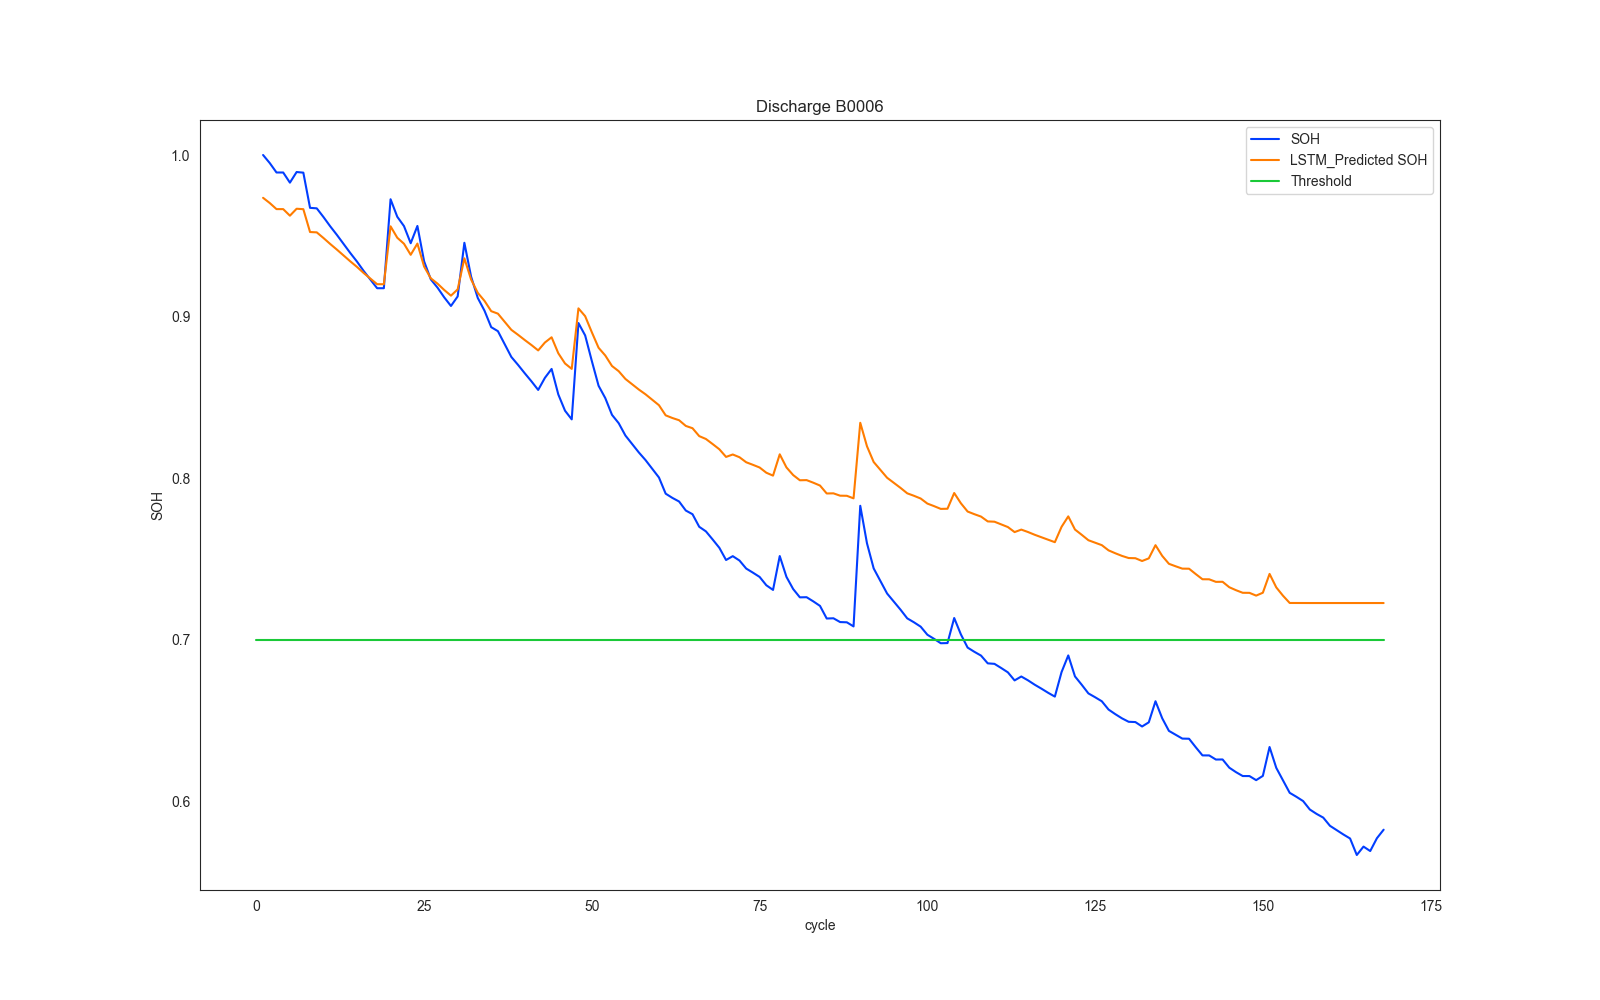
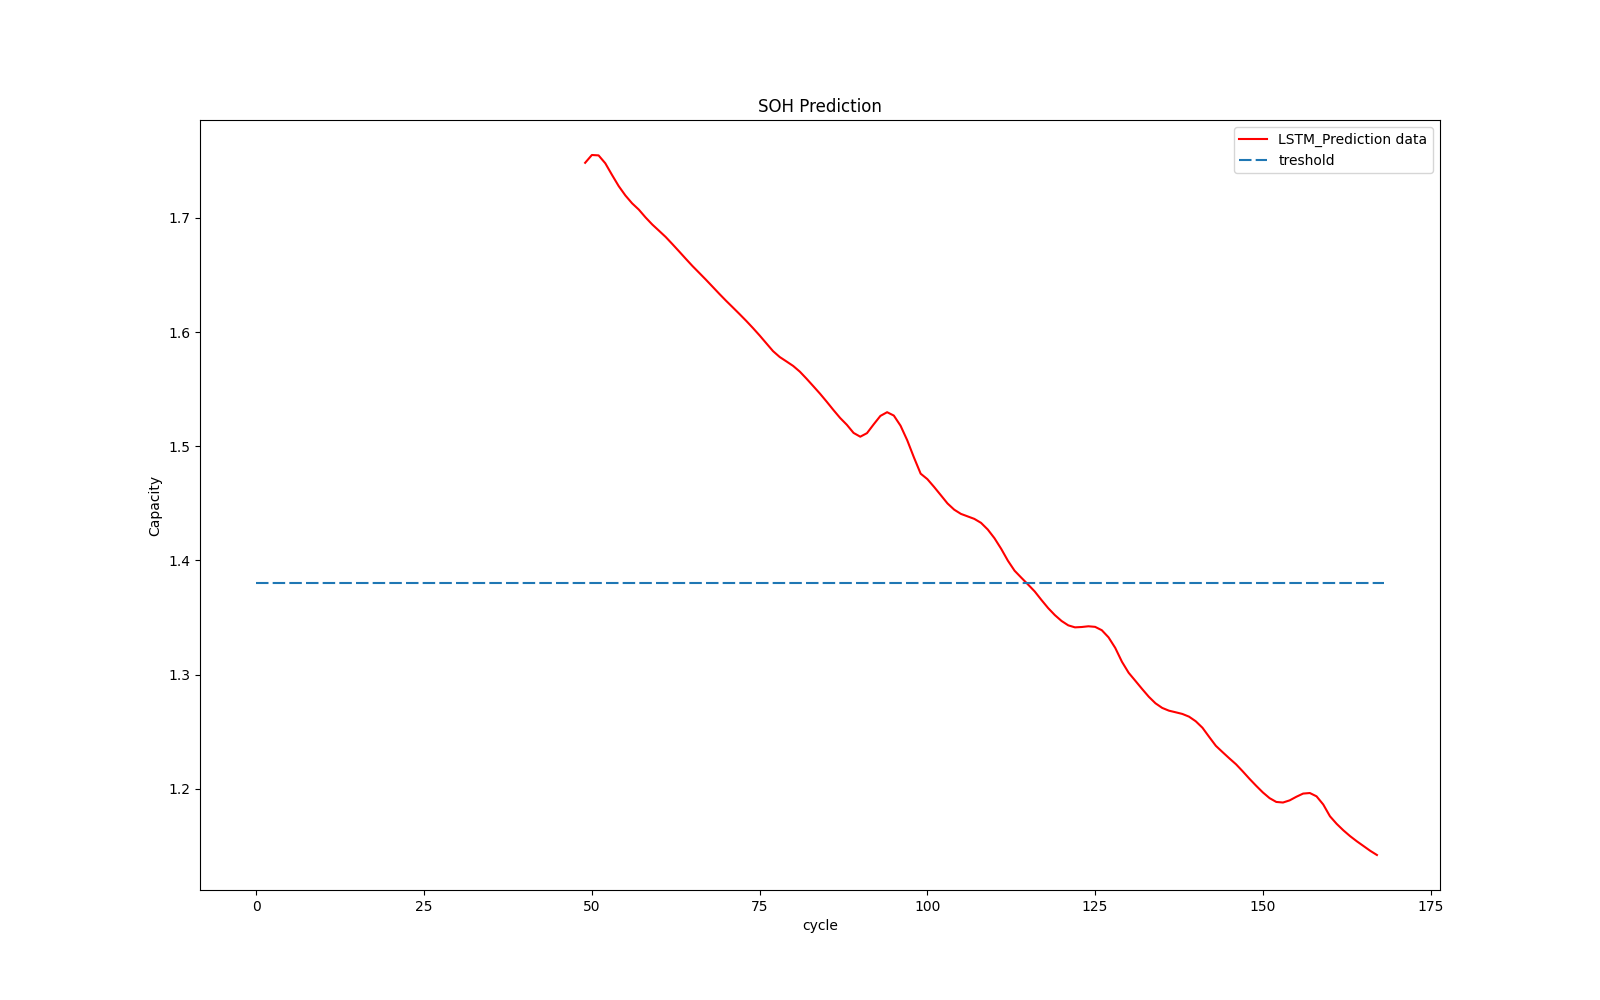
aifinish

diff --git a/index.js b/index.js
@@ -6,8 +6,8 @@ const app = express();
 const port = 4000;
 
 app.use(express.json()); // JSON 요청 파싱
-//나중에 포스트로
-app.post("/ai", (req, res) => {
+
+app.post("/predict", (req, res) => {
   //이미지 생성
   console.log("AI URL 호출");
 
@@ -38,11 +38,16 @@ app.post("/ai", (req, res) => {
 
   // Python 프로세스 종료 후 응답 전송
   pythonOne.on("close", (code) => {
-    console.log(`Python process exited with code ${code}`);
-    console.log(`이미지 저장 경로: ${outputFilePath}`);
-
+    //console.log(pythonOutput);
+    const lines = pythonOutput.trim().split("\n"); // 모든 줄을 배열로 분리
+    const lastLine = lines[lines.length - 1]; // 마지막 줄 가져오기
+    //console.log(lastLine);
     // 이미지 생성 완료 응답
-    res.json({ id: userId, file: outputFileName });
+    res.json({
+      device_number: userId,
+      predicted_SOH: lastLine,
+      file: outputFileName,
+    });
   });
 });
 

diff --git a/lstm.py b/lstm.py
@@ -27,35 +27,43 @@ import json
 import sys  # 추가: Node.js에서 인자를 받기 위해 사용
 
 # Node.js에서 이미지 저장 경로를 전달받음
-if len(sys.argv) < 2:
-    print("Error: Output file path not provided.")
-    sys.exit(1)
 
+
+if len(sys.argv) < 2:
+     #print("Error: Output file path not provided.")
+     sys.exit(1)
 output_file_path = sys.argv[1]  # Node.js에서 전달받은 출력 경로
 
+###!! 데이터베이스 연동 해서 넘겨줘야됨 input_data=np.array([[a,b,c,d,e,f,g]]) #넣어야 하는 값
+###!! 데이터베이스 연동해서 넘기고 확인해야됨 print(input_data)
+
+
 ###js추가
+
+
 def load_data(matlab_data):
   mat = loadmat(matlab_data)
 
   # '__'로 시작하지 않는 키를 찾아서 사용
   filename = [key for key in mat.keys() if not key.startswith('_')][0]
 
-  print('Total data in dataset: ', len(mat[filename][0, 0]['cycle'][0]))
+  #print('Total data in dataset: ', len(mat[filename][0, 0]['cycle'][0])) # B0005에 존재하는 사이클의 개수 출력
   counter = 0
   dataset = []
   capacity_data = []
 
-  for i in range(len(mat[filename][0, 0]['cycle'][0])):
-    row = mat[filename][0, 0]['cycle'][0, i]
-    if row['type'][0] == 'discharge':
-      ambient_temperature = row['ambient_temperature'][0][0]
+  for i in range(len(mat[filename][0, 0]['cycle'][0])): #사이클의 개수만큼 반복
+    row = mat[filename][0, 0]['cycle'][0, i]  #사이클의 데이터를 가져온다
+    if row['type'][0] == 'discharge':   #주기가 방전인 경우만 처리
+      ambient_temperature = row['ambient_temperature'][0][0] #방전일 때의 온도 추출
       date_time = datetime.datetime(int(row['time'][0][0]),
                                int(row['time'][0][1]),
                                int(row['time'][0][2]),
                                int(row['time'][0][3]),
                                int(row['time'][0][4])) + datetime.timedelta(seconds=int(row['time'][0][5]))
       data = row['data']
-      capacity = data[0][0]['Capacity'][0][0]
+      capacity = data[0][0]['Capacity'][0][0] #방전 데이터에서 capacity정보 추출
+      #방전 데이터의 길이만큼 반복하며 상세 데이터 처리. 각 시점에서의 측정된 전압, 온도, 부하 전압 시간 추출한다.
       for j in range(len(data[0][0]['Voltage_measured'][0])):
         voltage_measured = data[0][0]['Voltage_measured'][0][j]
         current_measured = data[0][0]['Current_measured'][0][j]
@@ -63,14 +71,17 @@ def load_data(matlab_data):
         current_load = data[0][0]['Current_load'][0][j]
         voltage_load = data[0][0]['Voltage_load'][0][j]
         time = data[0][0]['Time'][0][j]
+        #세부 데이터를 dataset 리스트에 저장
         dataset.append([counter + 1, ambient_temperature, date_time, capacity,
                         voltage_measured, current_measured,
                         temperature_measured, current_load,
                         voltage_load, time])
+      #cycle별로 용량 데이터를 저장하고 cycle 번호를 증가시킨다.
       capacity_data.append([counter + 1, ambient_temperature, date_time, capacity])
       counter = counter + 1
 
-  print(dataset[0])
+  #print(dataset[0]) #변환된 데이터의 첫 번째 행을 출력
+  #dataset과 capacity_data를 각각 데이터프레임으로 변환
   return [pd.DataFrame(data=dataset,
                        columns=['cycle', 'ambient_temperature', 'date_time',
                                 'capacity', 'voltage_measured', 'current_measured', 'temperature_measured',
@@ -79,66 +90,31 @@ def load_data(matlab_data):
                        columns=['cycle', 'ambient_temperature', 'date_time', 'capacity'])]
 
 dataset, capacity = load_data("B0005.mat") #경로 설정 주의!!!
-pd.set_option('display.max_columns', 10)
 
-
-##시작지점 
-print(dataset.head())
-dataset.describe()
-
+#capacity데이터프레임에서 cycle이 1이상인 행만 선택. cycle, capacity열을 포함하는 새로운 데이터프레임 생성
 plot_df = capacity.loc[(capacity['cycle']>=1),['cycle','capacity']]
-sns.set_style("whitegrid")
-#deep, muted, pastel, bright, dark, colorblind
-sns.set_palette('bright')
-plt.figure(figsize=(12, 8))
-plt.plot(plot_df['cycle'], plot_df['capacity'])
-#Draw threshold
-plt.plot([0.,len(capacity)], [1.4, 1.4])
-plt.ylabel('Capacity')
-# make x-axis ticks legible
-adf = plt.gca().get_xaxis().get_major_formatter()
-plt.xlabel('cycle')
-plt.title('file=B0005 | type=discharge')
 
-attrib=['cycle', 'date_time', 'capacity']
+attrib=['cycle', 'date_time', 'capacity'] #capacity 데이터 프레임에서 주기, 시간, 용량 열만 선택해서 데이터 프레임 생성
 dis_ele = capacity[attrib]
-C = dis_ele['capacity'][0]
-for i in range(len(dis_ele)):
-    dis_ele['SOH']=(dis_ele['capacity'])/C
-print(dis_ele.head(5))
-
-dis_ele.describe()
-
-plot_df = dis_ele.loc[(dis_ele['cycle']>=1),['cycle','SOH']]
-sns.set_style("whitegrid")
-#deep, muted, pastel, bright, dark, colorblind
-sns.set_palette('bright')
-plt.figure(figsize=(12, 8))
-plt.plot(plot_df['cycle'], plot_df['SOH'])
-#Draw threshold
-plt.plot([0.,len(capacity)], [0.70, 0.70])
-plt.ylabel('SOH')
-# make x-axis ticks legible
-adf = plt.gca().get_xaxis().get_major_formatter()
-plt.xlabel('cycle')
-plt.title('file=B0005 | type=discharge')
+C = dis_ele['capacity'][0] # 첫 번째 주기의 배터리 용량을C로 저장 이 값을 기준으로 soh계산
+for i in range(len(dis_ele)): #각 주기의 soh를 계산
+    dis_ele['SOH']=(dis_ele['capacity'])/C #새로운 열 SOH를 데이터 프레임에 추가
 
 C = dataset['capacity'][0]
 soh = []
-for i in range(len(dataset)):
+for i in range(len(dataset)): #dataset의 각 주기에 대해 soh를 계산하여 리스트 soh에 추가
   soh.append([dataset['capacity'][i] / C])
-soh = pd.DataFrame(data=soh, columns=['SOH'])
+soh = pd.DataFrame(data=soh, columns=['SOH']) #SOH 리스트를 SOH열을 가진 데이터프레임을 변환
 
 attribs=['capacity', 'voltage_measured', 'current_measured',
          'temperature_measured', 'current_load', 'voltage_load', 'time']
-train_dataset = dataset[attribs]
-sc = MinMaxScaler(feature_range=(0,1))
-train_dataset = sc.fit_transform(train_dataset)
-print(train_dataset.shape)
-print(soh.shape)
+train_dataset = dataset[attribs] #학습에 필용한 열(attribs)을 선택하여 훈련용 데이터 생성
+sc = MinMaxScaler(feature_range=(0,1)) #훈련용 데이터를 0~1로 정규화. 최소값을0, 최댓값을1로 변환
 
-# MAGIC %md
-# MAGIC ADAM optimizer
+train_dataset = sc.fit_transform(train_dataset)
+
+
+#print(train_dataset.shape)
 
 import tensorflow as tf
 from tensorflow.keras.models import Sequential
@@ -148,41 +124,50 @@ from tensorflow.keras.layers import Flatten
 from tensorflow.keras.layers import LSTM
 from tensorflow.keras.optimizers import Adam
 
-# MAGIC %md
 # MAGIC ## LSTM-Based Modeling
 
-lstm_model = Sequential()
+lstm_model = Sequential() #Sequential 모델 초기화. 계층을 순차적으로 추가할 수 있는 형태
+#첫번째 레이어. 뉴런8개, 활성화 함수:ReLU, 입력 크기:train_dataset의 열 개수
 lstm_model.add(Dense(8, activation='relu', input_dim=train_dataset.shape[1]))
 lstm_model.add(Dense(8, activation='relu'))
 lstm_model.add(Dense(8, activation='relu'))
-lstm_model.add(Dropout(rate=0.25))
-lstm_model.add(Dense(1))
-lstm_model.summary()
+lstm_model.add(Dropout(rate=0.25)) #dropout레이어 추가하여 과적합방지, 뉴련 출력을 25%확률로 무시
+lstm_model.add(Dense(1)) #최종 레이어. 활성화 함수가 없음으로 기본값(선형 활성화 함수)사용soh예측 하는 역할
+#Adam옵티마이저 사용. 실제 soh와 예측된 soh사이의 절대 오차 계산
 lstm_model.compile(optimizer=Adam(beta_1=0.9, beta_2=0.999, epsilon=1e-08), loss='mean_absolute_error')
 
-# MAGIC %md
-# MAGIC Train Model
+lstm_model.fit(x=train_dataset, y=soh.to_numpy(), batch_size=25, epochs=50) #배치크기:25, 에폭50(제이터 전체를 50번 학습)
 
-lstm_model.fit(x=train_dataset, y=soh.to_numpy(), batch_size=25, epochs=50)
-
-# MAGIC %md
-# MAGIC ## Test Model SoH Prediction
-# MAGIC B0006
-dataset_val, capacity_val = load_data('B0006.mat') #경로 설정 주의!!
+dataset_val, capacity_val = load_data('B0005.mat') #경로 설정 주의!!===이 부분에 서버에서 넘어온 차량의 데이터를 추가해준다!!
 attrib=['cycle', 'date_time', 'capacity']
-dis_ele = capacity_val[attrib]
+dis_ele = capacity_val[attrib] #capacity_val에서 attrib리스트에 지정된 컬럼만 추출하여 새로운 데이터 프레임 생성 (168 x 4)
 C = dis_ele['capacity'][0]
+
 for i in range(len(dis_ele)):
     dis_ele['SOH']=(dis_ele['capacity']) / C
-print(dataset_val.head(5))
-print(dis_ele.head(5))
 
-
-#LSTM 모델
+#MAGIC ## Test Model SoH Prediction
+#dataset_val[attrib]을 MinMaxScaler로 정규화하고, 이를 모델의 입력으로 사용
 attrib=['capacity', 'voltage_measured', 'current_measured',
         'temperature_measured', 'current_load', 'voltage_load', 'time']
+#print("dataset_val shape: ",dataset_val[attrib].shape) # 50285 x 7
+
+#모델 입력에 필요한 열(attrib)만 선택. 다음 정보 포함:[capacity,voltage_measured,current_measured,temperature_measured,current_load,voltage_load,time]
+#sc:MinMaxScalaer객체. 0~1로 정규화
+#predict():딥러닝 라이브러리 제공 함수
+
 soh_pred = lstm_model.predict(sc.fit_transform(dataset_val[attrib]))
-print(soh_pred.shape)
+
+input_data = np.array([[60000, 407.4, -0.0014, 24.0, 0, 407.4, 2500]])
+result = np.concatenate([train_dataset, input_data], axis=0)
+
+sc = MinMaxScaler(feature_range=(0,1))
+sc.fit(result)
+new_data = sc.transform(result)
+scaled_data=new_data[-1:]
+soh_pred_test = lstm_model.predict(scaled_data)
+
+#print("Predicted SOH:", soh_pred_test[0][0]) #예측된 soh값================================여기 주목!!!!!
 
 C = dataset_val['capacity'][0]
 soh = []
@@ -192,29 +177,8 @@ new_soh1 = dataset_val.loc[(dataset_val['cycle'] >= 1), ['cycle']]
 new_soh1['SOH'] =  soh
 new_soh1['NewSOH'] = soh_pred
 new_soh1 = new_soh1.groupby(['cycle']).mean().reset_index()
-print(new_soh1.head(10))
-rms = np.sqrt(mean_squared_error(new_soh1['SOH'], new_soh1['NewSOH']))
-print('Root Mean Square Error: ', rms)
 
-#LSTM 예측
-plot_df1 = new_soh1.loc[(new_soh1['cycle']>=1),['cycle','SOH', 'NewSOH']]
-sns.set_style("white")
-plt.figure(figsize=(16, 10))
-plt.plot(plot_df1['cycle'], plot_df1['SOH'], label='SOH')
-plt.plot(plot_df1['cycle'], plot_df1['NewSOH'], label='LSTM_Predicted SOH')
-
-#Draw threshold
-plt.plot([0.,len(capacity)], [0.70, 0.70], label='Threshold')
-plt.ylabel('SOH')
-# make x-axis ticks legible
-adf = plt.gca().get_xaxis().get_major_formatter()
-plt.xlabel('cycle')
-plt.legend()
-plt.title('Discharge B0006')
-
-plt.savefig(output_file_path)  # 전달받은 경로에 이미지 저장#plt.savefig("./aimg/battery_soh_capacity.jpg") ###############################이 부분이 이미지를 보여줌
-
-dataset_val, capacity_val = load_data('B0005.mat') #경로 설정 주의!!
+dataset_val, capacity_val = load_data('B0005.mat')
 attrib=['cycle', 'date_time', 'capacity']
 dis_ele = capacity_val[attrib]
 rows=['cycle','capacity']
@@ -249,11 +213,11 @@ regress1.add(LSTM(units=200))
 regress1.add(Dropout(0.3))
 regress1.add(Dense(units=1))
 regress1.compile(optimizer='adam',loss='mean_squared_error')
-regress1.summary()
+#regress1.summary()
 
 regress1.fit(X_train,y_train,epochs=200,batch_size=25)
 
-print(len(data_test))
+#print(len(data_test))
 data_total=pd.concat((data_train['capacity'], data_test['capacity']),axis=0)
 inputs=data_total[len(data_total)-len(data_test)-10:].values
 inputs=inputs.reshape(-1,1)
@@ -266,23 +230,51 @@ for i in range(10,129):
 X_test=np.array(X_test)
 X_test=np.reshape(X_test,(X_test.shape[0],X_test.shape[1],1))
 pred1=regress1.predict(X_test)
-print(pred1.shape)
+#print(pred1.shape)
 pred1=sc.inverse_transform(pred1)
 pred1=pred1[:,0]
 tests=data_test.iloc[:,1:2]
 rmse = np.sqrt(mean_squared_error(tests, pred1))
-print('Test RMSE: %.3f' % rmse)
+#print('Test RMSE: %.3f' % rmse)
 metrics.r2_score(tests,pred1)
+
+def correction(pred, cycles, slope=-0.0009, intercept=0.02):
+    """
+    Cycle에 따라 보정값을 추가하여 예측된 Capacity에 적용합니다.
+    Args:
+        pred: 모델이 예측한 SOH 값 배열
+        cycles: 각 예측 값에 해당하는 Cycle 값 배열
+        slope: Cycle 보정의 기울기 (Cycle이 증가함에 따라 보정값이 감소)
+        intercept: 보정값의 초기값
+    Returns:
+        보정된 예측 SOH 값 배열
+    """
+    # 보정값 계산
+    corrections = slope * cycles + intercept
+    # 예측값에 보정값 적용
+    corrected_pred = pred + corrections
+    return corrected_pred
+# Cycle에 따른 보정값 적용
+
+data_test = data_test.copy()  # 원본 데이터가 변경되지 않도록 복사본 사용
+data_test['cycle'] = data_test.index  # Cycle 값을 설정 (예시 값)
+
+# 보정된 예측값 계산
+corrected_pred = correction(pred1, data_test['cycle'].values)
+
+
+# 결과 확인 및 보정된 예측값 추가
+data_test.loc[:, 'Corrected'] = corrected_pred
 
 ln = len(data_train)
 data_test['pre']=pred1
 plot_df = dataset.loc[(dataset['cycle']>=1),['cycle','capacity']] #실제 데이터
 
-plot_per = data_test.loc[(data_test['cycle']>=ln),['cycle','pre']]
+plot_per = data_test.loc[(data_test['cycle']>=ln),['cycle','Corrected']]
 plt.figure(figsize=(16, 10))
-plt.plot(plot_df['cycle'], plot_df['capacity'], label="Actual data", color='blue') #실제 데이터
+#plt.plot(plot_df['cycle'], plot_df['capacity'], label="Actual data", color='blue') #실제 데이터
 
-plt.plot(plot_per['cycle'],plot_per['pre'],label="LSTM_Prediction data", color='red') #LSTM모델인 경우
+plt.plot(plot_per['cycle'],plot_per['Corrected'],label="LSTM_Prediction data", color='red') #LSTM모델인 경우
 
 #Draw threshold
 plt.plot([0.,168], [1.38, 1.38],dashes=[6, 2], label="treshold")
@@ -291,31 +283,8 @@ plt.ylabel('Capacity')
 adf = plt.gca().get_xaxis().get_major_formatter()
 plt.xlabel('cycle')
 plt.legend()
-plt.title('file=B0005 | type=discharge -RULe=-8, window-size=10')
+plt.title('SOH Prediction')
 
-#특정 임계값을 기준으로 배터리의 성능 저하를 예측.
-#실제 성능과 예측된 성능을 비교하여 배터리가 기준 임계점 이하로 떨어지는 사이클 시점을 각각 찾고 그 차이를 통해 잔존 수명 예측 오류(RUL error)를 계산하는 코드
-pred=0
-Afil=0
-Pfil=0
-a=data_test['capacity'].values # 실제 배터리 용량 값을 배열로 가져옴
-b=data_test['pre'].values # 예측된 배터리 용량 값을 배열로 가져옴
-j=0 #실제 값에서 임계점 이하인 사이클의 번호
-k=0 #예측 값에서 임계점 이하인 사이클의 번
-for i in range(len(a)):
-    actual=a[i]
+plt.savefig(output_file_path)  # 전달받은 경로에 이미지 저장#plt.savefig("./aimg/battery_soh_capacity.jpg") 
 
-    if actual<=1.38: #임계값 1.38로 설정
-        j=i
-        Afil=j
-        break
-for i in range(len(a)):
-    pred=b[i]
-    if pred< 1.38:
-        k=i
-        Pfil=k
-        break
-print("Actual Fail at Cycle Number: "+ str(Afil+ln))
-print("Prediction Fail at Cycle Number: "+ str(Pfil+ln))
-RULerror=Pfil-Afil
-print("Error of RUL= "+ str(RULerror)+ " Cycles")
+print(float(soh_pred_test[0][0]))
